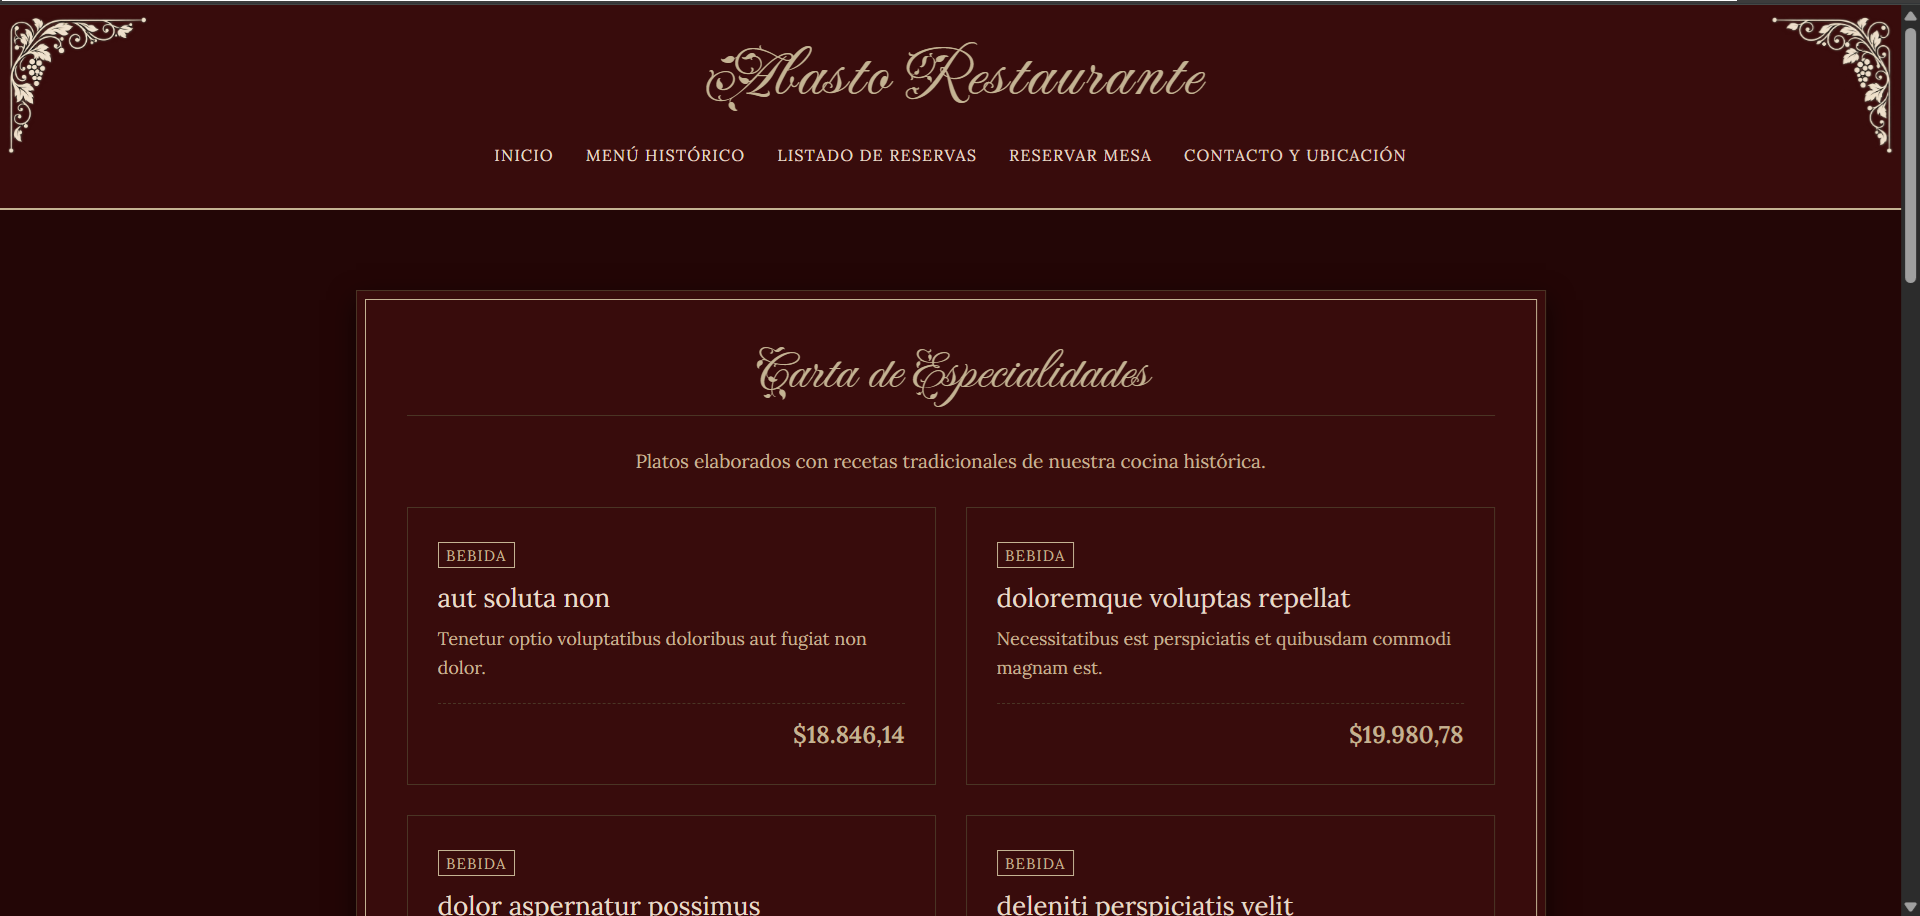
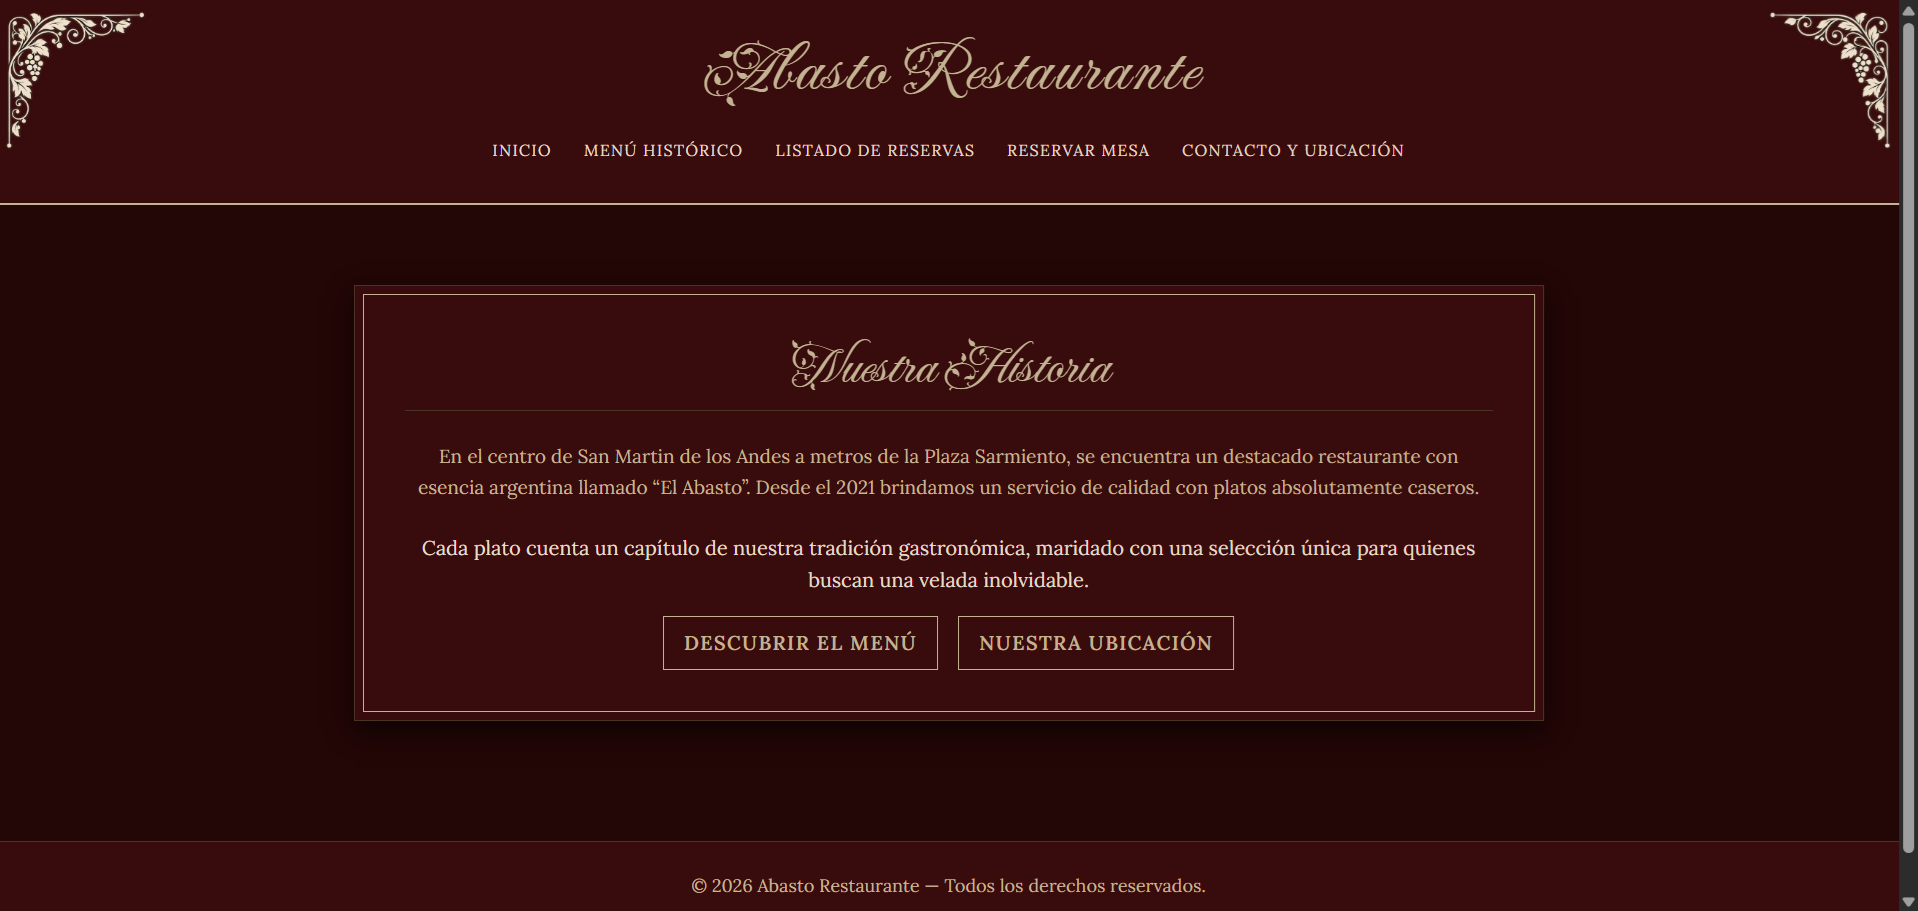
feat: detalles finales

diff --git a/public/css/estilos.css b/public/css/estilos.css
@@ -33,23 +33,17 @@ header {
     background-image: 
         url("../images/esquina-izquierda.png"), 
         url("../images/esquina-derecha.png");
-    background-repeat: 
-        no-repeat, 
-        no-repeat;
-    background-position: 
-        top left, 
-        top right;
-    background-size: 
-        auto 80%, 
-        auto 80%;
+    background-repeat: no-repeat, no-repeat;
+    background-position: top left, top right;
+    background-size: auto 80%, auto 80%;
 }
-
 
 header h1 {
     font-family: 'Fleur De Leah', serif;
     color: var(--gold-accent);
     font-size: 3.5rem;
     letter-spacing: 2px;
+    font-weight: normal;
 }
 
 nav {
@@ -66,7 +60,7 @@ nav a {
     text-transform: uppercase;
     font-size: 0.8rem;
     letter-spacing: 1px;
-    padding: 0.4rem 0.4rem;
+    padding: 0.4rem;
     border-bottom: 1px solid transparent;
     transition: 0.3s;
 }
@@ -103,6 +97,7 @@ main {
     font-family: 'Fleur De Leah', serif;
     color: var(--gold-accent);
     font-size: 2.7rem;
+    font-weight: normal;
     text-align: center;
     margin-bottom: 1.5rem;
     border-bottom: 1px solid var(--border-vintage);
@@ -112,12 +107,7 @@ main {
 .text-main {
     font-size: 0.95rem;
     margin-bottom: 1.5rem;
-    color: #c8b598;
-}
-
-.texto-main-2 {
-    color: #c8b598;
-    margin-bottom: 2rem;
+    color: var(--muted-text);
 }
 
 /* Botones */
@@ -126,6 +116,10 @@ main {
     justify-content: center;
     gap: 1rem;
     flex-wrap: wrap;
+}
+
+.form-actions {
+    margin-top: 1.5rem;
 }
 
 .btn-vintage {
@@ -140,6 +134,7 @@ main {
     border: 1px solid var(--gold-accent);
     cursor: pointer;
     transition: 0.3s;
+    font-family: 'Lora', serif;
 }
 
 .btn-vintage:hover {
@@ -155,7 +150,7 @@ main {
 }
 
 .card-item {
-    background-color: var(--bg-dark-brown);
+    background-color: var(--bg-black);
     border: 1px solid var(--border-vintage);
     padding: 1.5rem;
     display: flex;
@@ -173,29 +168,29 @@ main {
 }
 
 .card-title {
-    font-family: 'Lora', serif;
     font-size: 1.3rem;
     margin: 0.6rem 0;
     color: var(--cream-text);
 }
 
 .card-title-gold {
-    font-family: 'Lora', serif;
     color: var(--gold-accent);
-    font-size: 0.9rem;
+    font-size: 0.95rem;
     text-transform: uppercase;
+    letter-spacing: 1px;
     margin-bottom: 0.5rem;
 }
 
 .card-desc {
     font-size: 0.9rem;
     color: var(--muted-text);
-    margin-bottom: 1rem;
+    margin-top: 0.4rem;
 }
 
 .card-price-box {
     border-top: 1px dashed var(--border-vintage);
     padding-top: 0.6rem;
+    margin-top: 1rem;
     text-align: right;
 }
 
@@ -253,7 +248,7 @@ input[type="number"],
 textarea {
     width: 100%;
     padding: 0.7rem;
-    background-color:#230606 ;
+    background-color: var(--bg-black);
     border: 1px solid var(--border-vintage);
     color: var(--cream-text);
     font-family: 'Lora', serif;
@@ -277,7 +272,8 @@ input:focus, textarea:focus {
     display: grid;
     grid-template-columns: repeat(auto-fill, minmax(240px, 1fr));
     gap: 0.8rem;
-    background-color: var(--bg-dark-brown);
+    background-color: var(--bg-black);
+    border: 1px solid var(--border-vintage);
     padding: 1.2rem;
     max-height: 300px;
     overflow-y: auto;
@@ -289,7 +285,7 @@ input:focus, textarea:focus {
     gap: 0.6rem;
     font-size: 0.9rem;
     cursor: pointer;
-    color: #c8b598;
+    color: var(--muted-text);
 }
 
 .checkbox-item input[type="checkbox"] {
@@ -297,13 +293,18 @@ input:focus, textarea:focus {
     accent-color: var(--gold-accent);
 }
 
-/* Listado de Reservas Mejorado */
+.precio-hint {
+    color: var(--gold-accent);
+}
+
+/* Listado de Reservas */
 .reservas-header-actions {
     margin-bottom: 2.2rem;
 }
 
 .reserva-card {
     background-color: var(--bg-black);  
+    border: 1px solid var(--border-vintage);
     padding: 1.5rem 1.8rem;
     margin-bottom: 1.5rem;
     display: flex;
@@ -311,7 +312,11 @@ input:focus, textarea:focus {
     align-items: flex-end;
     gap: 1.5rem;
     box-shadow: 0 4px 12px rgba(0, 0, 0, 0.35);
-    transition: transform 0.2s ease, border-color 0.2s ease;
+    transition: border-color 0.2s ease;
+}
+
+.reserva-card:hover {
+    border-color: var(--gold-accent);
 }
 
 .reserva-info {
@@ -321,7 +326,6 @@ input:focus, textarea:focus {
 .reserva-header {
     display: flex;
     align-items: center;
-    font-family: 'Lora', serif;
     gap: 1rem;
     flex-wrap: wrap;
     margin-bottom: 0.8rem;
@@ -427,7 +431,6 @@ input:focus, textarea:focus {
     font-size: 0.78rem;
     letter-spacing: 1px;
     transition: 0.3s;
-    align-self: flex-end;
 }
 
 .btn-danger:hover {

diff --git a/resources/views/reservas/create.blade.php b/resources/views/reservas/create.blade.php
@@ -73,7 +73,7 @@
                             {{ is_array(old('productos')) && in_array($producto->id, old('productos')) ? 'checked' : '' }}>
                         <span>
                             <strong>{{ $producto->nombre }}</strong> 
-                            <small style="color: var(--gold-accent);">(${{ number_format($producto->precio, 0, ',', '.') }})</small>
+                            <small>(${{ number_format($producto->precio, 0, ',', '.') }})</small>
                         </span>
                     </label>
                 @endforeach
@@ -91,9 +91,9 @@
             @enderror
         </div>
 
-        <div class="btn-group" style="margin-top: 1.5rem;">
+        <div class="btn-group">
             <button type="submit" class="btn-vintage">Confirmar Reserva</button>
-            <a href="{{ route('reservas.index') }}" class="btn-vintage btn-outline">Ver Lista de Reservas</a>
+            <a href="{{ route('reservas.index') }}" class="btn-vintage">Ver Lista de Reservas</a>
         </div>
     </form>
 </div>

diff --git a/resources/views/layouts/app.blade.php b/resources/views/layouts/app.blade.php
@@ -8,7 +8,6 @@
     <link rel="preconnect" href="https://fonts.googleapis.com">
     <link rel="preconnect" href="https://fonts.gstatic.com" crossorigin>
 
-    <link rel="stylesheet" href="https://fonts.googleapis.com/css2?family=Material+Symbols+Outlined:opsz,wght,FILL,GRAD@20..48,100..700,0..1,-50..200" />
     <link href="https://fonts.googleapis.com/css2?family=Fleur+De+Leah&family=Lora:ital,wght@0,400;0,600;1,400&family=Playfair+Display:wght@600;800&display=swap" rel="stylesheet">
     
     <link href="https://cdn.jsdelivr.net/npm/bootstrap@5.3.3/dist/css/bootstrap.min.css" rel="stylesheet">   
